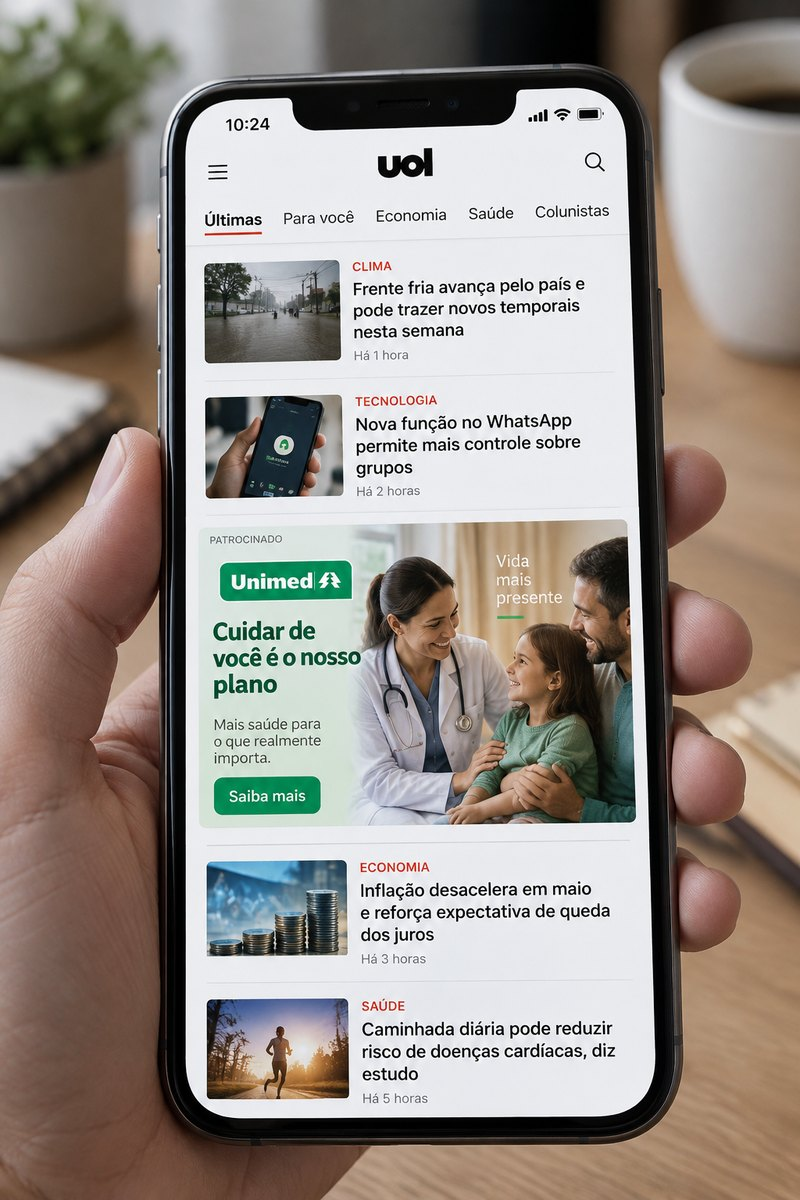
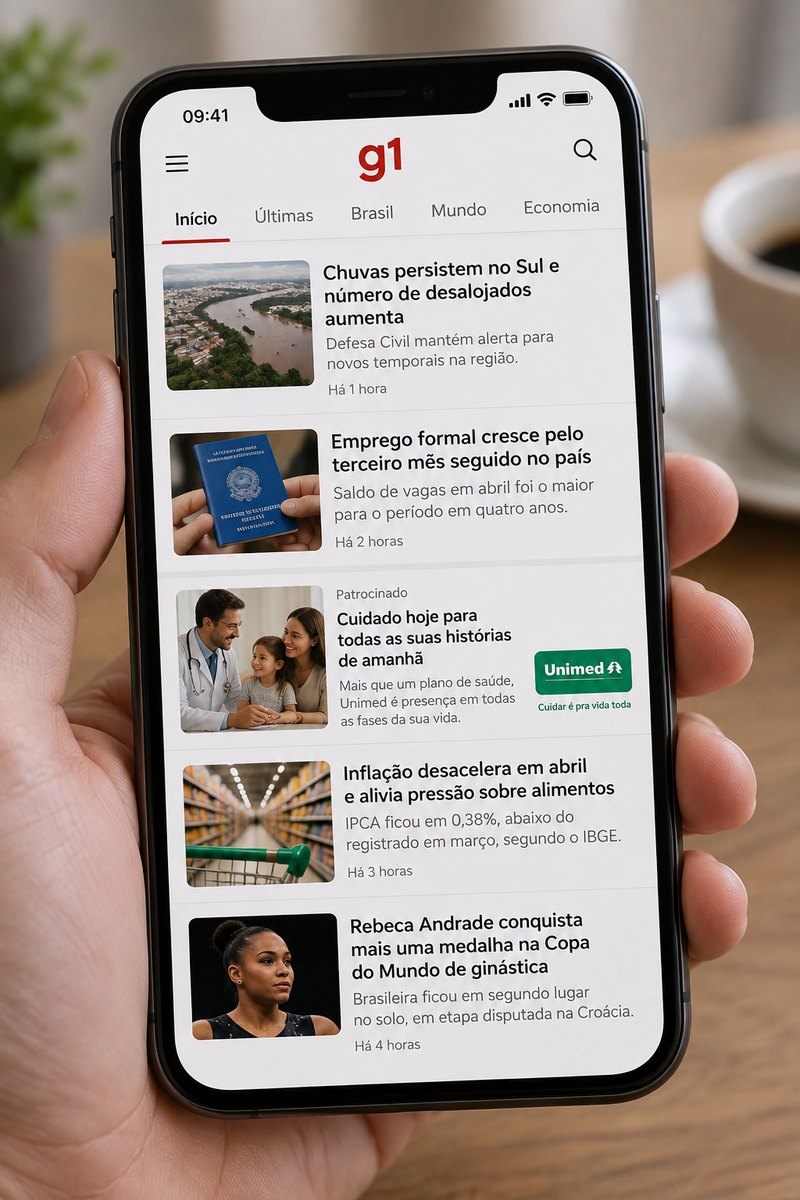
fix(planner): anúncios do DV360 com g1 e notícias neutras no lugar do UOL

diff --git a/aicentralv2/cadu_planner/channel_ads.py b/aicentralv2/cadu_planner/channel_ads.py
@@ -54,11 +54,11 @@ CHANNEL_ADS = {
         ('home-loja', 'p', 'Destaque na home da loja', 'Banner · home', 'Visibilidade para a marca logo na entrada.', 'smartphone shopping home with a hero brand banner'),
         ('marca-loja-propria', 'l', 'Loja da marca', 'Brand Store', 'Vitrine própria com todos os produtos da marca.', 'laptop showing a branded store page of the brand')]),
     'google-dv360': ('Programmatic display advertising mockups on real-looking news and content websites, clean.', [
-        ('display-300x250', 'l', 'Display retângulo médio', 'Display · 300x250', 'O formato mais comprado, presente em milhares de sites.', 'news article webpage on a laptop with a 300x250 ad box in the sidebar'),
-        ('display-970x250', 'l', 'Billboard no topo do site', 'Display · 970x250', 'Alto impacto no topo da página.', 'portal webpage with a wide 970x250 billboard ad at the top'),
-        ('mobile-320x100', 'p', 'Banner mobile', 'Display · 320x100', 'Banner fixo em sites e apps no celular.', 'smartphone news article with a banner ad pinned at the bottom'),
+        ('display-300x250', 'l', 'Display retângulo médio', 'Display · 300x250', 'O formato mais comprado, presente em milhares de sites.', 'g1 (Globo news portal, red and white) article webpage on a laptop with a 300x250 ad box in the sidebar'),
+        ('display-970x250', 'l', 'Billboard no topo do site', 'Display · 970x250', 'Alto impacto no topo da página.', 'g1 news portal homepage on a desktop monitor with a wide 970x250 banner ad at the top, the page below shows only weather, sports and technology headlines with generic landscape photos'),
+        ('mobile-320x100', 'p', 'Banner mobile', 'Display · 320x100', 'Banner fixo em sites e apps no celular.', 'smartphone g1 news article with a banner ad pinned at the bottom'),
         ('video-instream', 'l', 'Vídeo in-stream', 'Vídeo · in-stream', 'Anúncio de vídeo antes do conteúdo.', 'laptop video player with a pre-roll ad and a Skip button'),
-        ('native', 'p', 'Anúncio nativo', 'Nativo · feed de conteúdo', 'Se integra ao estilo do conteúdo ao redor.', 'smartphone article feed with a native sponsored card among articles')]),
+        ('native', 'p', 'Anúncio nativo', 'Nativo · feed de conteúdo', 'Se integra ao estilo do conteúdo ao redor.', 'smartphone news app article list with one native sponsored card, same style as the articles, labeled Patrocinado')]),
     'logan': ('Out-of-home advertising photo in Brazil, sharp and premium.', [
         ('frontlight', 'l', 'Outdoor de estrada', 'OOH · outdoor', 'Visibilidade em rodovias e grandes avenidas.', 'large roadside billboard along a highway at sunset'),
         ('led-avenida', 'l', 'Painel de LED', 'DOOH · LED', 'Troca de mensagem por horário e por dia.', 'large LED billboard on an urban avenue at night'),
